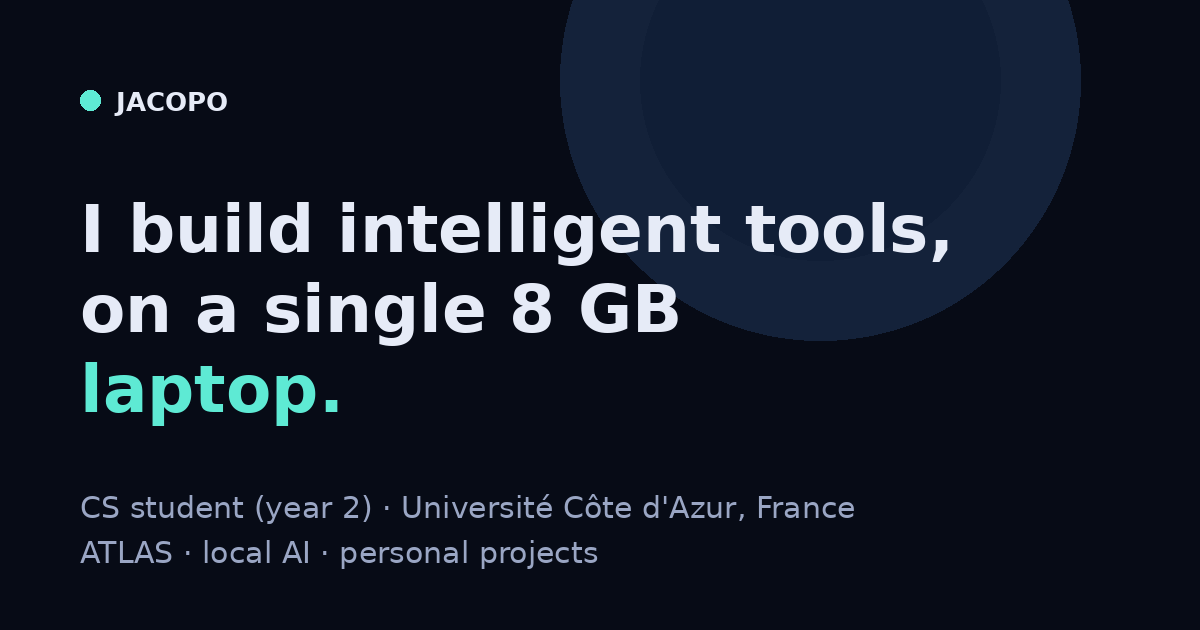
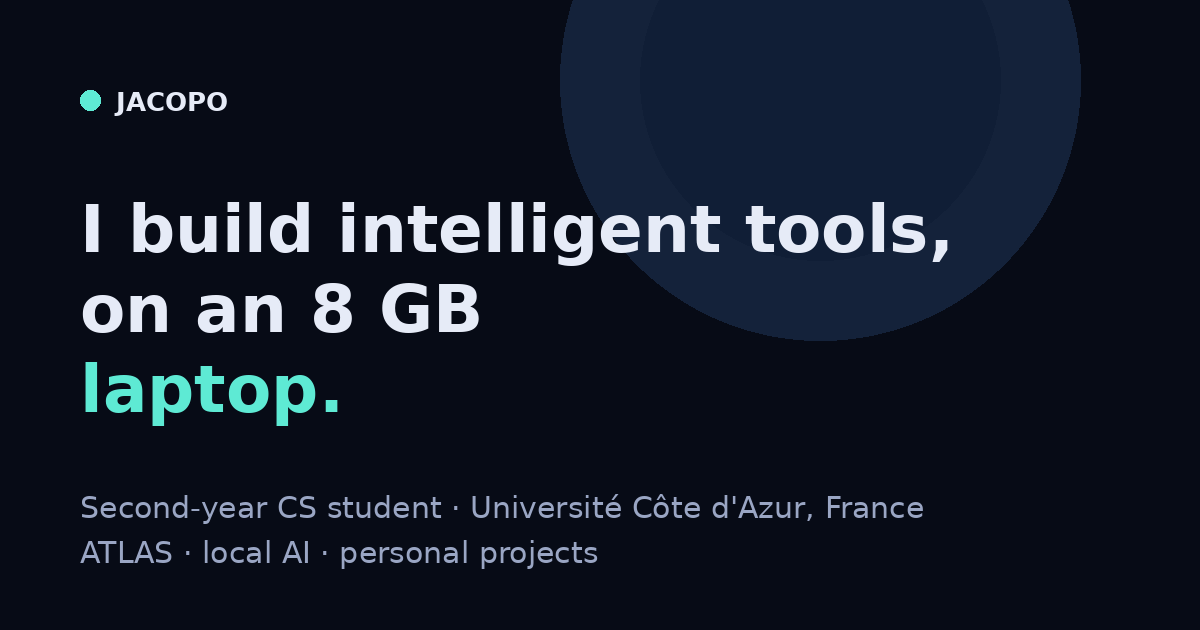
Relecture de la version anglaise : formulations naturelles, cohérence avec le français

Changed region(s): [[0.0617, 0.7841, 0.7708, 0.8444], [0.185, 0.4524, 0.5858, 0.573]]

diff --git a/src/en/index.html b/src/en/index.html
@@ -4,7 +4,7 @@
 <meta charset="utf-8">
 <meta name="viewport" content="width=device-width, initial-scale=1">
 <title>Jacopo — Computer science student building ATLAS and AI projects</title>
-<meta name="description" content="Second-year computer science student at Université Côte d'Azur (France). I build ATLAS, a personal intelligent assistant, plus games and tools on a single 8 GB laptop. I'm looking for a versatile, upgradeable desktop PC for my studies, local AI and gaming.">
+<meta name="description" content="Second-year computer science student at Université Côte d'Azur (France). I build ATLAS, a personal intelligent assistant, plus games and tools on an 8 GB laptop. I'm looking for a versatile, upgradeable desktop PC for my studies, local AI and gaming.">
 <meta name="theme-color" content="#070b16">
 <link rel="canonical" href="{{siteUrl}}/en/">
 <link rel="alternate" hreflang="fr" href="{{siteUrl}}/">
@@ -16,7 +16,7 @@
 <meta property="og:locale:alternate" content="fr_FR">
 <meta property="og:site_name" content="Jacopo">
 <meta property="og:title" content="Jacopo — Computer science student &amp; AI projects">
-<meta property="og:description" content="Second-year CS student at Université Côte d'Azur (France). ATLAS, a personal intelligent assistant, plus games and tools, all built on a single 8 GB laptop.">
+<meta property="og:description" content="Second-year CS student at Université Côte d'Azur (France). ATLAS, a personal intelligent assistant, plus games and tools, all built on an 8 GB laptop.">
 <meta property="og:url" content="{{siteUrl}}/en/">
 <meta property="og:image" content="{{siteUrl}}/og-en.png">
 <meta property="og:image:width" content="1200">
@@ -24,7 +24,7 @@
 <meta property="og:image:alt" content="Jacopo — computer science student, ATLAS and AI projects">
 <meta name="twitter:card" content="summary_large_image">
 <meta name="twitter:title" content="Jacopo — Computer science student &amp; AI projects">
-<meta name="twitter:description" content="ATLAS, a personal intelligent assistant, built on a single 8 GB laptop.">
+<meta name="twitter:description" content="ATLAS, a personal intelligent assistant, built on an 8 GB laptop.">
 <meta name="twitter:image" content="{{siteUrl}}/og-en.png">
 <script type="application/ld+json">
 {"@context":"https://schema.org","@type":"Person","name":"Jacopo","url":"{{siteUrl}}/en/","sameAs":["{{github}}"],"affiliation":{"@type":"CollegeOrUniversity","name":"Université Côte d'Azur"},"jobTitle":"Computer science student (second-year undergraduate)","inLanguage":"en"}
@@ -59,9 +59,9 @@
 <section class="hero" id="accueil">
   <div class="wrap hero-grid">
     <div>
-      <p class="eyebrow">Computer Science, year 2 · Université Côte d'Azur, France</p>
-      <h1>I build intelligent tools,<br><span class="grad">on a single 8&nbsp;GB laptop.</span></h1>
-      <p class="lead">I'm a computer science student, in the second year of a university degree (the French <em>Licence 2</em>) at Université Côte d'Azur, a public university in southern France. I'm passionate about software development and artificial intelligence, and I'm building several personal projects, including <strong>ATLAS</strong>, an intelligent personal assistant. My current computer is starting to hold back my experiments, so I'm looking to build a versatile, upgradeable desktop PC.</p>
+      <p class="eyebrow">Second-year Computer Science student · Université Côte d'Azur, France</p>
+      <h1>I build intelligent tools,<br><span class="grad">on an 8&nbsp;GB laptop.</span></h1>
+      <p class="lead">I'm a second-year computer science student (the French <em>Licence 2</em>) at Université Côte d'Azur, a public university in southern France. I'm passionate about software development and artificial intelligence, and I'm building several personal projects, including <strong>ATLAS</strong>, an intelligent personal assistant. My current computer is starting to hold back my experiments, so I'm looking to build a versatile, upgradeable desktop PC.</p>
       <div class="actions">
         <a class="btn primary" href="#projets">See my projects</a>
         <a class="btn" href="#contact">Get in touch</a>
@@ -73,7 +73,7 @@
         <li><span>Who</span> Jacopo, a second-year computer science student (L2) at Université Côte d'Azur, France.</li>
         <li><span>What I build</span> ATLAS (a personal assistant in Python, ≈ 20,000 lines), three games and apps with screenshots below, and other tools.</li>
         <li><span>My limit</span> An ASUS Vivobook: i5-1135G7, 8&nbsp;GB of RAM, integrated Intel Iris Xe graphics. It's my only computer.</li>
-        <li><span>What would help</span> A used or partial PC build, or individual parts (AM5, DDR5, a GPU with plenty of VRAM).</li>
+        <li><span>What would help</span> A used desktop PC or individual components (AM5, DDR5, a GPU with plenty of VRAM).</li>
         <li><span>Contact</span> <!--if:email--><a href="mailto:{{email}}">{{email}}</a><!--/if:email--></li>
       </ol>
     </aside>
@@ -82,7 +82,7 @@
 
 <section id="projets" class="sec">
   <div class="wrap">
-    <p class="eyebrow">Work</p>
+    <p class="eyebrow">Projects</p>
     <h2>My projects</h2>
     <p class="intro">All of my repositories are <strong>private</strong>: the source code is not public, so it can't be browsed online. If you're interested, I can share it on request. Each card says what works today and what doesn't.</p>
 
@@ -98,7 +98,7 @@
       <div class="cols">
         <div>
           <h4>The problem</h4>
-          <p>A student juggles a class schedule, email, coursework, transit and fitness tracking across tools that don't talk to each other. ATLAS connects them in a single agent that runs locally first and stays under my control.</p>
+          <p>A student juggles a class schedule, email, coursework, transit and fitness tracking across tools that don't talk to each other. ATLAS connects them in one agent that runs locally first and stays under my control.</p>
           <h4>The goal</h4>
           <p>A reliable, testable core where integrations plug in one at a time, with explicit rules about what the assistant is allowed to do on its own.</p>
           <h4>Technologies</h4>
@@ -145,14 +145,14 @@
 
       <h4>Features actually implemented</h4>
       <ul class="ticks two-col">
-        <li><strong>Control core</strong>: request → intent → context → plan → policy → execution → audit → response, with an audit log.</li>
+        <li><strong>Core pipeline</strong>: request → intent → context → plan → policy → execution → audit → response, with an audit log.</li>
         <li><strong>Policy engine</strong>: autonomy levels; sensitive actions don't run without approval.</li>
-        <li><strong>Task engine</strong>: resumes after a restart, idempotent, bounded retries.</li>
-        <li><strong>University calendar</strong>: class schedule (ADE) synced to a personal calendar, configurable rules, exams take priority over classes.</li>
+        <li><strong>Task engine</strong>: picks up where it left off after a restart, idempotent, with a capped number of retries.</li>
+        <li><strong>University calendar</strong>: my class schedule (from ADE, the university's scheduling system) synced to a personal calendar, with configurable rules; exams take priority over regular classes.</li>
         <li><strong>Email</strong>: Gmail reading, deterministic extraction, a review queue for anything ambiguous.</li>
         <li><strong>Transit</strong>: train timetables (GTFS) tied to my schedule.</li>
-        <li><strong>Fitness</strong>: import of workouts and recovery data through the Suunto API.</li>
-        <li><strong>Studies</strong>: lectures, tutorials and labs turned into structured notes and review flashcards.</li>
+        <li><strong>Fitness</strong>: imports workouts and recovery data from the Suunto API.</li>
+        <li><strong>Studies</strong>: lectures, exercise sessions and labs turned into structured notes and review flashcards.</li>
         <li><strong>Private API and mobile page</strong>, reachable only over a private network and with a token.</li>
       </ul>
 
@@ -167,7 +167,7 @@
         <div class="proj-top"><h3>Investors</h3><span class="status">Version 0.1 (release candidate)</span></div>
         <p>A 3D economic management game that runs offline: you start with 15,000&nbsp;CR, buy and upgrade businesses, invest in real estate, take out loans and trade on simulated markets until you own the whole city. No real transactions.</p>
         <ul class="ticks small"><li>20 businesses and 125 upgrades, 14 properties, a bank, and simulated markets.</li><li>A 3D city of 38 lots, with CC0-licensed (public domain) models and textures.</li><li>Frame rate measured on my laptop: 26 to 49 frames per second depending on the quality setting.</li></ul>
-        <p class="muted"><strong>Limits:</strong> Windows version untested; sound effects not listened to during testing.</p>
+        <p class="muted"><strong>Limits:</strong> Windows version untested; audio not checked by ear during testing.</p>
         <ul class="chips"><li>Python</li><li>Ursina / Panda3D</li></ul>
       </div>
       <div class="shots">
@@ -223,7 +223,7 @@
         <ul class="chips"><li>Python</li><li>MediaPipe</li><li>OpenCV</li><li>D-Bus</li></ul>
       </article>
       <article class="card proj">
-        <div class="proj-top"><h3>sql-exercism</h3><span class="status">Working</span></div>
+        <div class="proj-top"><h3>sql-exercism</h3><span class="status">Functional</span></div>
         <p>A command-line tool for practicing databases: 74 exercises graded automatically against a real MySQL server, with progress tracking and a timed mock-exam mode.</p>
         <ul class="chips"><li>Python</li><li>MySQL</li><li>Docker</li></ul>
       </article>
@@ -235,7 +235,7 @@
   <div class="wrap">
     <p class="eyebrow">Development environment</p>
     <h2>My current machine</h2>
-    <p class="intro">My ASUS Vivobook F515EA is my only computer, used for my studies, my development and all of my projects. It lets me code, test and keep moving forward; it holds me back as soon as several tools or large models come into play.</p>
+    <p class="intro">My ASUS Vivobook F515EA is my only computer, used for my studies, my development and all of my projects. It's enough to code, test and keep making progress, but it holds me back as soon as several tools or large models come into play.</p>
 
     <div class="machine">
       <div class="card spec">
@@ -244,7 +244,7 @@
           <div><dt>Processor</dt><dd>Intel Core i5-1135G7 (4 cores, 8 threads, low-power laptop chip)</dd></div>
           <div><dt>Memory</dt><dd>8&nbsp;GB of RAM, shared between the OS, my tools and the graphics processor</dd></div>
           <div><dt>Graphics</dt><dd>Integrated Intel Iris Xe, no dedicated video memory</dd></div>
-          <div><dt>Use</dt><dd>Studies, development, personal projects: nothing else</dd></div>
+          <div><dt>Use</dt><dd>Studies, development and personal projects only</dd></div>
         </dl>
       </div>
       <div class="split">
@@ -261,14 +261,14 @@
           <h3>Where it struggles</h3>
           <ul class="limits">
             <li><h4>Local AI</h4><p>A 7-billion-parameter model, quantized, already takes about 4 to 5&nbsp;GB: nearly everything left once the OS and editor are loaded. Generation on the CPU is slow, and larger models, fine-tuning or large search indexes are out of reach. <em>(General rules of thumb, not my own measurements.)</em></p></li>
-            <li><h4>Full RAM</h4><p>With a browser, an editor and containers open, my own system audits show memory almost full and swap almost exhausted during normal use.</p></li>
+            <li><h4>Running out of RAM</h4><p>With a browser, an editor and containers open, my own system audits show memory almost full and swap almost exhausted during normal use.</p></li>
             <li><h4>Several tools at once</h4><p>Compiling, running tests, a Docker container, a game engine and an Android emulator (several GB on its own) don't coexist: I close and reopen things, and each experiment takes longer.</p></li>
             <li><h4>Integrated graphics</h4><p>My 3D game Investors runs at 26 FPS on high quality and 49 on low, with the laptop already under load. That's fine for a prototype, too tight for rendering or GPU-accelerated AI experiments.</p></li>
           </ul>
         </div>
       </div>
     </div>
-    <p class="muted fine">Frame-rate measurements: laptop under load from an editor and an open game session, so on the pessimistic side; no measurement with a full 8&nbsp;GB free of other load.</p>
+    <p class="muted fine">Frame-rate measurements: laptop under load from an editor and an open game session, so on the pessimistic side; no measurement on a fresh boot with all 8&nbsp;GB free.</p>
   </div>
 </section>
 
@@ -276,7 +276,7 @@
   <div class="wrap">
     <p class="eyebrow">Hardware goal</p>
     <h2>My next challenge: stepping up my hardware</h2>
-    <p class="intro">I'd like to build a <strong>versatile, upgradeable desktop PC</strong>: a single powerful machine for my studies, my development projects, local AI experimentation, and my free time, including gaming.</p>
+    <p class="intro">I'd like to build a <strong>versatile, upgradeable desktop PC</strong>: one powerful machine for my studies, my development projects, local AI experimentation, and my free time, including gaming.</p>
 
     <div class="grid two">
       <div class="card">
@@ -295,8 +295,8 @@
         <h3>One machine, four uses</h3>
         <ul class="why">
           <li><strong>Software development and computer science studies</strong>: an editor, tests, containers, a game engine and an emulator running together, without closing everything and without waiting on every compile.</li>
-          <li><strong>Local AI experimentation and model development</strong>: VRAM decides which models I can run and study. This is a goal, not something I do today: ATLAS doesn't use a local model yet.</li>
-          <li><strong>Gaming</strong>: being able to play recent and future games under good conditions. It's a legitimate personal use, one among several: the same graphics card serves both AI and gaming.</li>
+          <li><strong>Running and experimenting with local AI models</strong>: VRAM decides which models I can run and study. This is a goal, not something I do today: ATLAS doesn't use a local model yet.</li>
+          <li><strong>Gaming</strong>: playing recent and future games at smooth frame rates and solid graphics settings. It's a legitimate personal use, one among several: the same graphics card serves both AI and gaming.</li>
           <li><strong>Long-term upgrades and scalability</strong>: AM5 and DDR5 let me improve the machine over several years instead of replacing it all.</li>
         </ul>
       </div>
@@ -308,14 +308,14 @@
   <div class="wrap narrow">
     <p class="eyebrow">Support</p>
     <h2>If you think you could help</h2>
-    <p>I'm not asking for anything, and I understand that everyone receives a lot of requests. If this project speaks to you, here is what could help me:</p>
+    <p>I don't expect anything, and I understand that everyone receives a lot of requests. If this project speaks to you, here is what could help me:</p>
     <ul class="ticks">
-      <li>An older PC build you no longer use.</li>
+      <li>An older PC you no longer use.</li>
       <li>Parts left over from a hardware upgrade.</li>
       <li>Demo or test hardware.</li>
       <li>Hardware or financial help, of any size.</li>
     </ul>
-    <p>No partnership or support exists today: this site is simply my way of showing what I do and asking the question honestly. Even a short reply or some advice on a build would mean a lot to me. Thank you for taking the time to read this.</p>
+    <p>I have no partnership or sponsor today: this site is simply my way of showing what I do and asking the question honestly. Even a short reply or some advice on a build would mean a lot to me. Thank you for taking the time to read this.</p>
   </div>
 </section>
 

diff --git a/src/index.html b/src/index.html
@@ -299,7 +299,7 @@
         <h3>Une seule machine, quatre usages</h3>
         <ul class="why">
           <li><strong>Études et développement</strong> : éditeur, tests, conteneurs, moteur de jeu et émulateur ensemble, sans tout fermer, et sans attendre à chaque compilation.</li>
-          <li><strong>IA locale</strong> : expérimenter et développer des modèles ; la VRAM décide de ceux que je peux faire tourner et étudier. C'est un objectif, pas un acquis : ATLAS n'utilise pas encore de modèle local.</li>
+          <li><strong>IA locale</strong> : faire tourner et expérimenter des modèles d'IA en local ; la VRAM décide de ceux que je peux faire tourner et étudier. C'est un objectif, pas un acquis : ATLAS n'utilise pas encore de modèle local.</li>
           <li><strong>Jeu vidéo</strong> : pouvoir jouer dans de bonnes conditions, aux jeux récents puis futurs. C'est un usage assumé, un parmi les autres : la même carte graphique sert à l'IA et au jeu.</li>
           <li><strong>Évolutivité</strong> : AM5 et DDR5 permettent d'améliorer la machine pendant plusieurs années plutôt que de tout racheter.</li>
         </ul>

diff --git a/scripts/og.py b/scripts/og.py
@@ -5,8 +5,8 @@ W, H = 1200, 630
 TEXTS = {
     "og.png": (["Je construis des outils", "intelligents, sur un seul", "portable de 8 Go."],
                "L2 Informatique · Université Côte d'Azur", "ATLAS · IA locale · projets personnels"),
-    "og-en.png": (["I build intelligent tools,", "on a single 8 GB", "laptop."],
-                  "CS student (year 2) · Université Côte d'Azur, France", "ATLAS · local AI · personal projects"),
+    "og-en.png": (["I build intelligent tools,", "on an 8 GB", "laptop."],
+                  "Second-year CS student · Université Côte d'Azur, France", "ATLAS · local AI · personal projects"),
 }
 
 def font(sz, bold=False):
